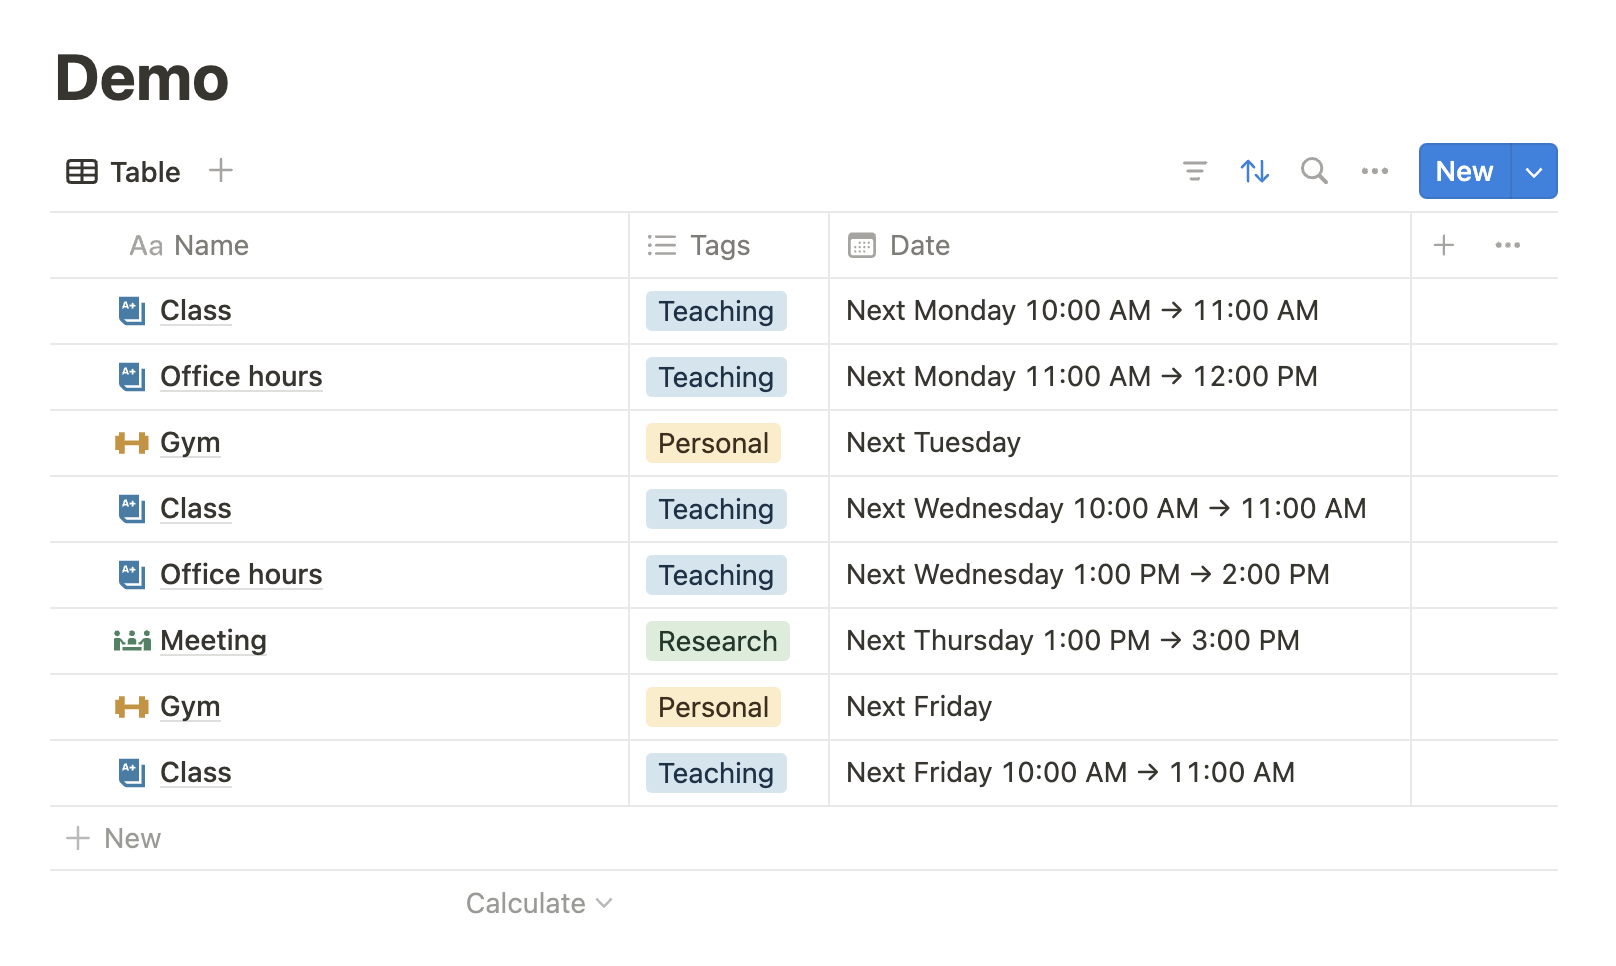
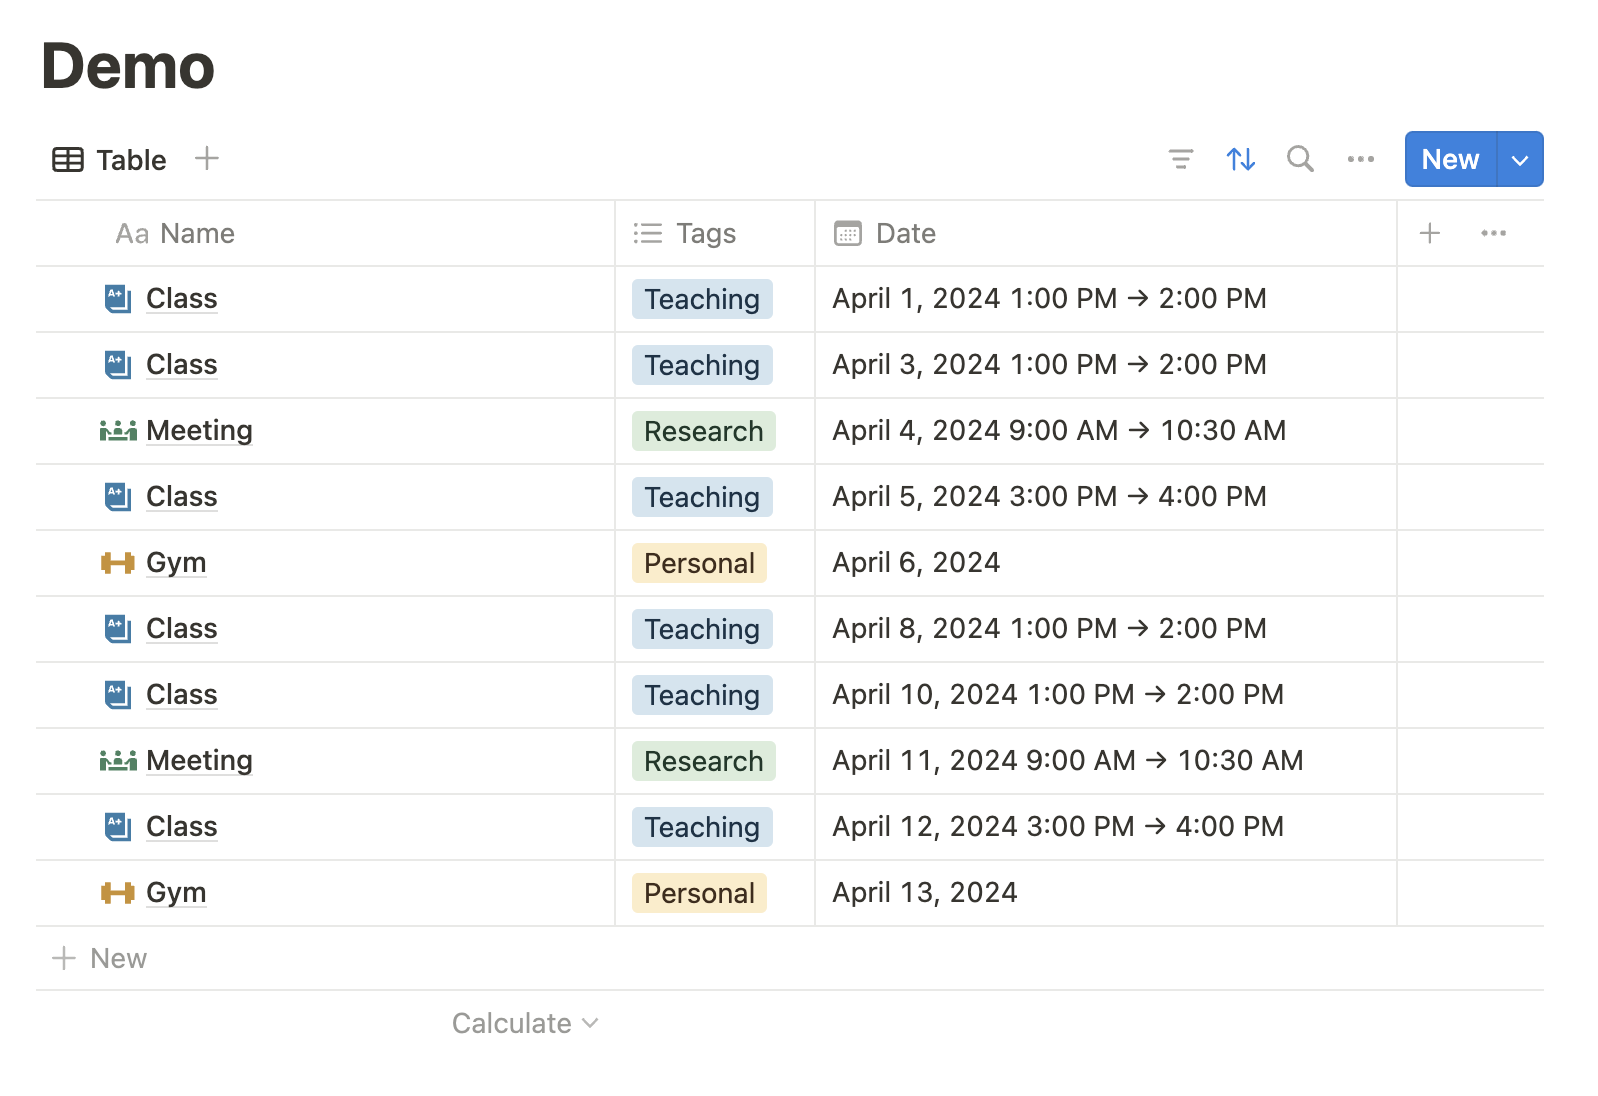
update README.md

diff --git a/src/demo_config.py b/src/demo_config.py
@@ -9,8 +9,7 @@ from notion_icon import NotionIcon
 from notion_property import NotionPropMultiSelect, NotionPropPlainTitle
 from routines import (
     EVERY_MON, EVERY_TUE, EVERY_WED, EVERY_THU, EVERY_FRI, EVERY_SAT, EVERY_SUN, EVERY_DAY,
-    Routine, TimeFrame,
-    routines_to_pages
+    Routine, routines_to_pages, TimeFrame,
 )
 
 async def create_routine_pages_demo() -> None:
@@ -45,7 +44,7 @@ def get_routines() -> list[Routine]:
 
     # Load parent database ID from .env file
     dotenv.load_dotenv()
-    PARENT_DB_ID: str = os.getenv("NOTION_DATABASE_ID")
+    DATABASE_ID: str = os.getenv("NOTION_DATABASE_ID")
 
     # Define names of the properties
     PROP_TITLE: str = "Name"
@@ -59,7 +58,7 @@ def get_routines() -> list[Routine]:
 
     # Create a prototype Notion page for meetings
     prototype_page_meeting = NotionPage(
-        parent_db_id=PARENT_DB_ID,
+        database_id=DATABASE_ID,
         title=NotionPropPlainTitle(name=PROP_TITLE, title="Meeting"),
         props=[NotionPropMultiSelect(name=PROP_TAGS, options=["Research"])],
         icon=MyNotionIcon.MEETING
@@ -75,7 +74,7 @@ def get_routines() -> list[Routine]:
 
     # Create a prototype Notion page for classes
     prototype_page_class = NotionPage(
-        parent_db_id=PARENT_DB_ID,
+        database_id=DATABASE_ID,
         title=NotionPropPlainTitle(name=PROP_TITLE, title="Class"),
         props=[NotionPropMultiSelect(name=PROP_TAGS, options=["Teaching"])],
         icon=MyNotionIcon.TEACHING
@@ -98,7 +97,7 @@ def get_routines() -> list[Routine]:
 
     # Create a prototype Notion page for the gym
     prototype_page_gym = NotionPage(
-        parent_db_id=PARENT_DB_ID,
+        database_id=DATABASE_ID,
         title=NotionPropPlainTitle(name=PROP_TITLE, title="Gym"),
         props=[NotionPropMultiSelect(name=PROP_TAGS, options=["Personal"])],
         icon=MyNotionIcon.GYM

diff --git a/src/notion_page.py b/src/notion_page.py
@@ -8,12 +8,12 @@ class NotionPage:
     # Initialize the NotionPage class with parent database ID, title, properties, and icon (optional)
     def __init__(
             self,
-            parent_db_id: str,
+            database_id: str,
             title: NotionPropPlainTitle,
             props: list[NotionProp],
             icon: NotionIcon | None = None
     ) -> None:
-        self.parent_db_id = parent_db_id
+        self.database_id = database_id
         self.title = title
         self.props = props
         self.icon = icon
@@ -24,7 +24,7 @@ class NotionPage:
             # Include the parent database ID
             "parent": {
                 "type": "database_id",
-                "database_id": self.parent_db_id,
+                "database_id": self.database_id,
             },
             # Generate JSON for each property and include it in the properties dictionary
             "properties": {

diff --git a/src/routines.py b/src/routines.py
@@ -47,7 +47,7 @@ class Routine:
         )
         # Return a new Notion page with the date property added to the prototype page properties
         return NotionPage(
-            parent_db_id=self.prototype_page.parent_db_id,
+            database_id=self.prototype_page.database_id,
             title=self.prototype_page.title,
             props=self.prototype_page.props + [date_prop],
             icon=self.prototype_page.icon

diff --git a/README.md b/README.md
@@ -7,26 +7,20 @@ I personally use Notion as my calendar/to-do-list app, and I use the program to 
 
 ## Demo
 
-The following is an example of creating routine tasks over the week starting from Monday, July 8, 2024.
+The following is an example of creating the following routine tasks over first two weeks of April 2024.
 
-```Python
-# main.py
-import asyncio
-import datetime
+1. Meeting: every Thursday 9 - 10:30am
+2. Class: every Monday & Wednesday 1 - 2pm & every Friday 3 - 4pm
+3. Gym: every Saturday
 
-from demo_config import create_routine_pages_demo
-from routines import TimeFrame
+![demo_notion](demo_notion.png)
 
-async def main() -> None:
-    time_frame = TimeFrame(first_date=datetime.date(year=2024, month=7, day=8), length=datetime.timedelta(weeks=1))
-    await create_routine_pages(time_frame)
-    return
+The following code from demo_config.py demonstrates the process of creating the Notion pages:
 
-if __name__ == "__main__":
-    asyncio.run(main())
-```
+1. First, the `routines_to_pages` function generates `NotionPage` objects for all routine tasks defined in `get_routines` within the specified time frame.
+2. Next, the `create_pages_batch` function posts all the generated pages to Notion using their API.
 
-```Python
+```python
 # demo_config.py
 import dotenv
 import os
@@ -34,31 +28,39 @@ import os
 from notion_api import NotionAPI
 from notion_create_page import create_pages_batch
 from notion_page import NotionPage
-from routines import Routine, routines_to_pages
+from routines import Routine, routines_to_pages, TimeFrame
 
-async def create_routine_pages(time_frame: TimeFrame) -> None:
+async def create_routine_pages_demo() -> None:
 
-    dotenv.load_dotenv()
-    notion_api = NotionAPI(os.getenv("NOTION_INTEGRATION_KEY"))
-
+    # Get the routines defined in the function get_routines()
     routines: list[Routine] = get_routines()
+
+    # Define the time frame for creating routine pages
+    # Starting from Monday, April 1, 2024, and spanning 2 weeks
+    time_frame = TimeFrame(first_date=datetime.date(year=2024, month=4, day=1), length=datetime.timedelta(weeks=2))
+
+    # Generate Notion pages based on the routines and the specified time frame
     pages: list[NotionPage] = routines_to_pages(routines, time_frame)
 
+    # Import Notion integration key from .env file, create a NotionAPI object, and use it to create all the Notion pages
+    dotenv.load_dotenv()
+    notion_api = NotionAPI(os.getenv("NOTION_INTEGRATION_KEY"))
     await create_pages_batch(notion_api, pages)
-
-    return
 ```
 
-The `routines` returned by `get_routines()` contained the following. (More details below)
+```python
+# main.py
+import asyncio
 
-1. Meeting: every Thursday 1-3pm
-2. Class: every Monday & Wednesday 10-11am
-3. Office hours: every Monday 11am-noon & Wednesday 1-2pm
-4. Gym: every Tuesday & Friday
+from demo_config import create_routine_pages_demo
 
-The following is the result on Notion.
+async def main() -> None:
+    await create_routine_pages_demo()
+    return
 
-![demo_notion](demo_notion.png)
+if __name__ == "__main__":
+    asyncio.run(main())
+```
 
 ## Usage
 
@@ -80,3 +82,88 @@ Create a `.env` file in the directory that includes the following.
 NOTION_INTEGRATION_KEY = "secret_XXXXXXXXXXXXXXXXXXXXXXXXXXXXXXXXXXXXXXXXXXX"
 NOTION_DATABASE_ID = "XXXXXXXX-XXXX-XXXX-XXXX-XXXXXXXXXXXX"
 ```
+
+### Key Classes and Functions
+
+#### Creating pages through Notion API
+
+notion_create_page.**create_pages_batch**(notion_api, pages)
+
+- Asynchronously posts multiple Notion pages to the Notion API.
+- Inputs:
+  - notion_api (NotionAPI): An instance of the NotionAPI class for authenticated communication with the Notion API.
+  - pages (list[NotionPage]): A list of NotionPage objects to be created in Notion.
+
+_class_ notion_api.**NotionAPI**(integration_key)
+
+- Manages integration with the Notion API.
+- Inputs:
+  - integration_key (str): The API integration key for authenticated communication with the Notion API.
+
+#### Notion pages and properties
+
+_class_ notion_page.**NotionPage**(database_id, title, props, icon = None)
+
+- Description: Represents a page to be created in Notion.
+- Inputs:
+  - database_id (str): The ID of the parent database in Notion.
+  - title (NotionPropPlainTitle): The title of the Notion page.
+  - props (list[NotionProp]): A list of properties for the Notion page.
+  - icon (NotionIcon, optional): An optional icon for the Notion page.
+
+_class_ notion_property.**NotionPropDate**(name)
+
+- Description: Represents a date property for a Notion page.
+- Inputs:
+  - name (str): The name of the property.
+  - start_datetime (datetime.date or datetime.datetime): The start date or datetime.
+  - duration (datetime.timedelta, optional): An optional duration for the date property.
+
+_class_ notion_property.**NotionPropMultiSelect**(name)
+
+- Description: Represents a multi-select property for a Notion page.
+- Inputs:
+  - name (str): The name of the property.
+  - options (list[str]): A list of selectable options.
+
+_class_ notion_property.**NotionPropPlainTitle**(name)
+
+- Description: Represents the title property of a Notion page.
+- Inputs:
+  - name (str): The name of the property.
+  - title (str): The title content.
+
+#### Routines
+
+routines.**routines_to_pages**(routines, time_frame: TimeFrame) -> list[NotionPage]
+
+- Description: Converts a list of routines and a time frame into a list of Notion pages.
+- Inputs:
+  - routines (list[Routine]): A list of Routine objects.
+  - time_frame (TimeFrame): An instance of the TimeFrame class defining the time frame for the routines.
+
+_class_ routines.**Routine**
+
+- Description: Encapsulates the details of a routine task.
+- Inputs:
+  - prototype_page (NotionPage): A prototype NotionPage object to base the routine on.
+  - repeat (set[int]): A set of integers (0-6, with 0 = Monday, 1 = Tuesday, etc.) representing the days of the week the routine repeats.
+  - date_prop_name (str): The name of the date property.
+  - start_time (datetime.time, optional): The start time of the routine.
+  - duration (datetime.timedelta, optional): The duration of the routine.
+- The following constants can be used as arguments
+  - routines.EVERY_MON = {0}
+  - routines.EVERY_TUE = {1}
+  - routines.EVERY_WED = {2}
+  - routines.EVERY_THU = {3}
+  - routines.EVERY_FRI = {4}
+  - routines.EVERY_SAT = {5}
+  - routines.EVERY_SUN = {6}
+  - routines.EVERY_DAY = {0,1,2,3,4,5,6}
+
+_class_ routines.**TimeFrame**
+
+- Description: Defines a time frame for creating routine pages.
+- Inputs:
+  - first_date (datetime.date): The start date of the time frame.
+  - length (datetime.timedelta): The duration of the time frame.
